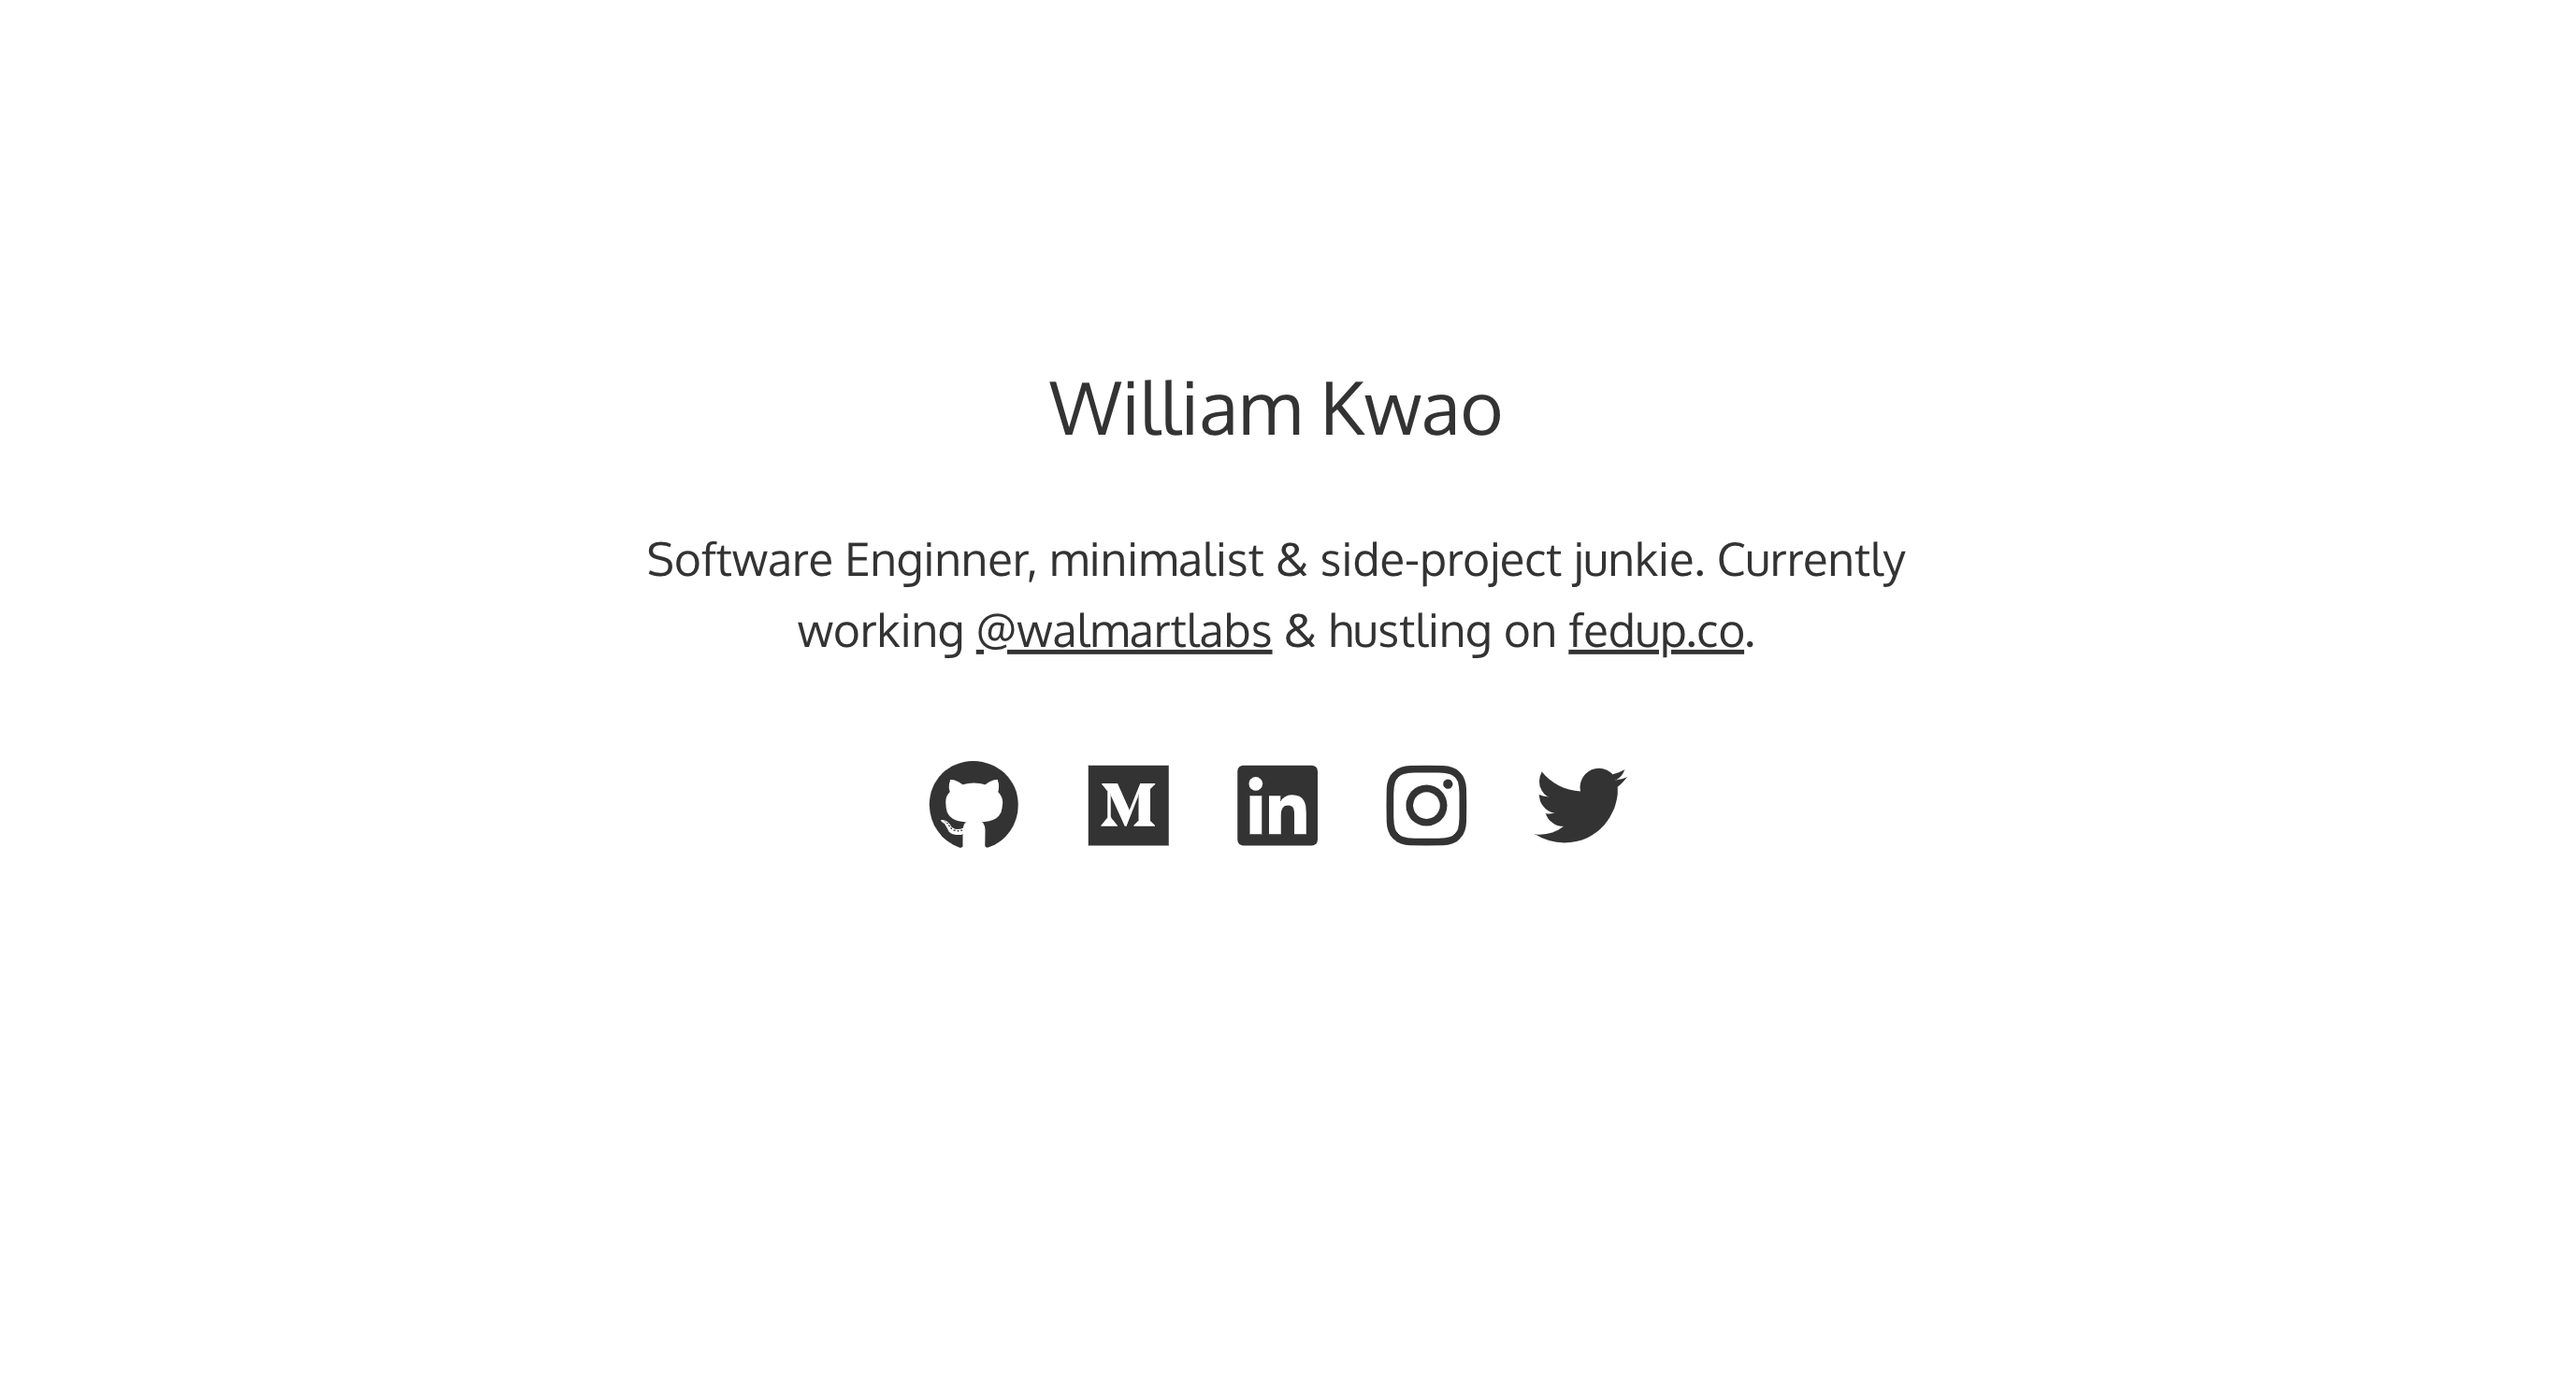
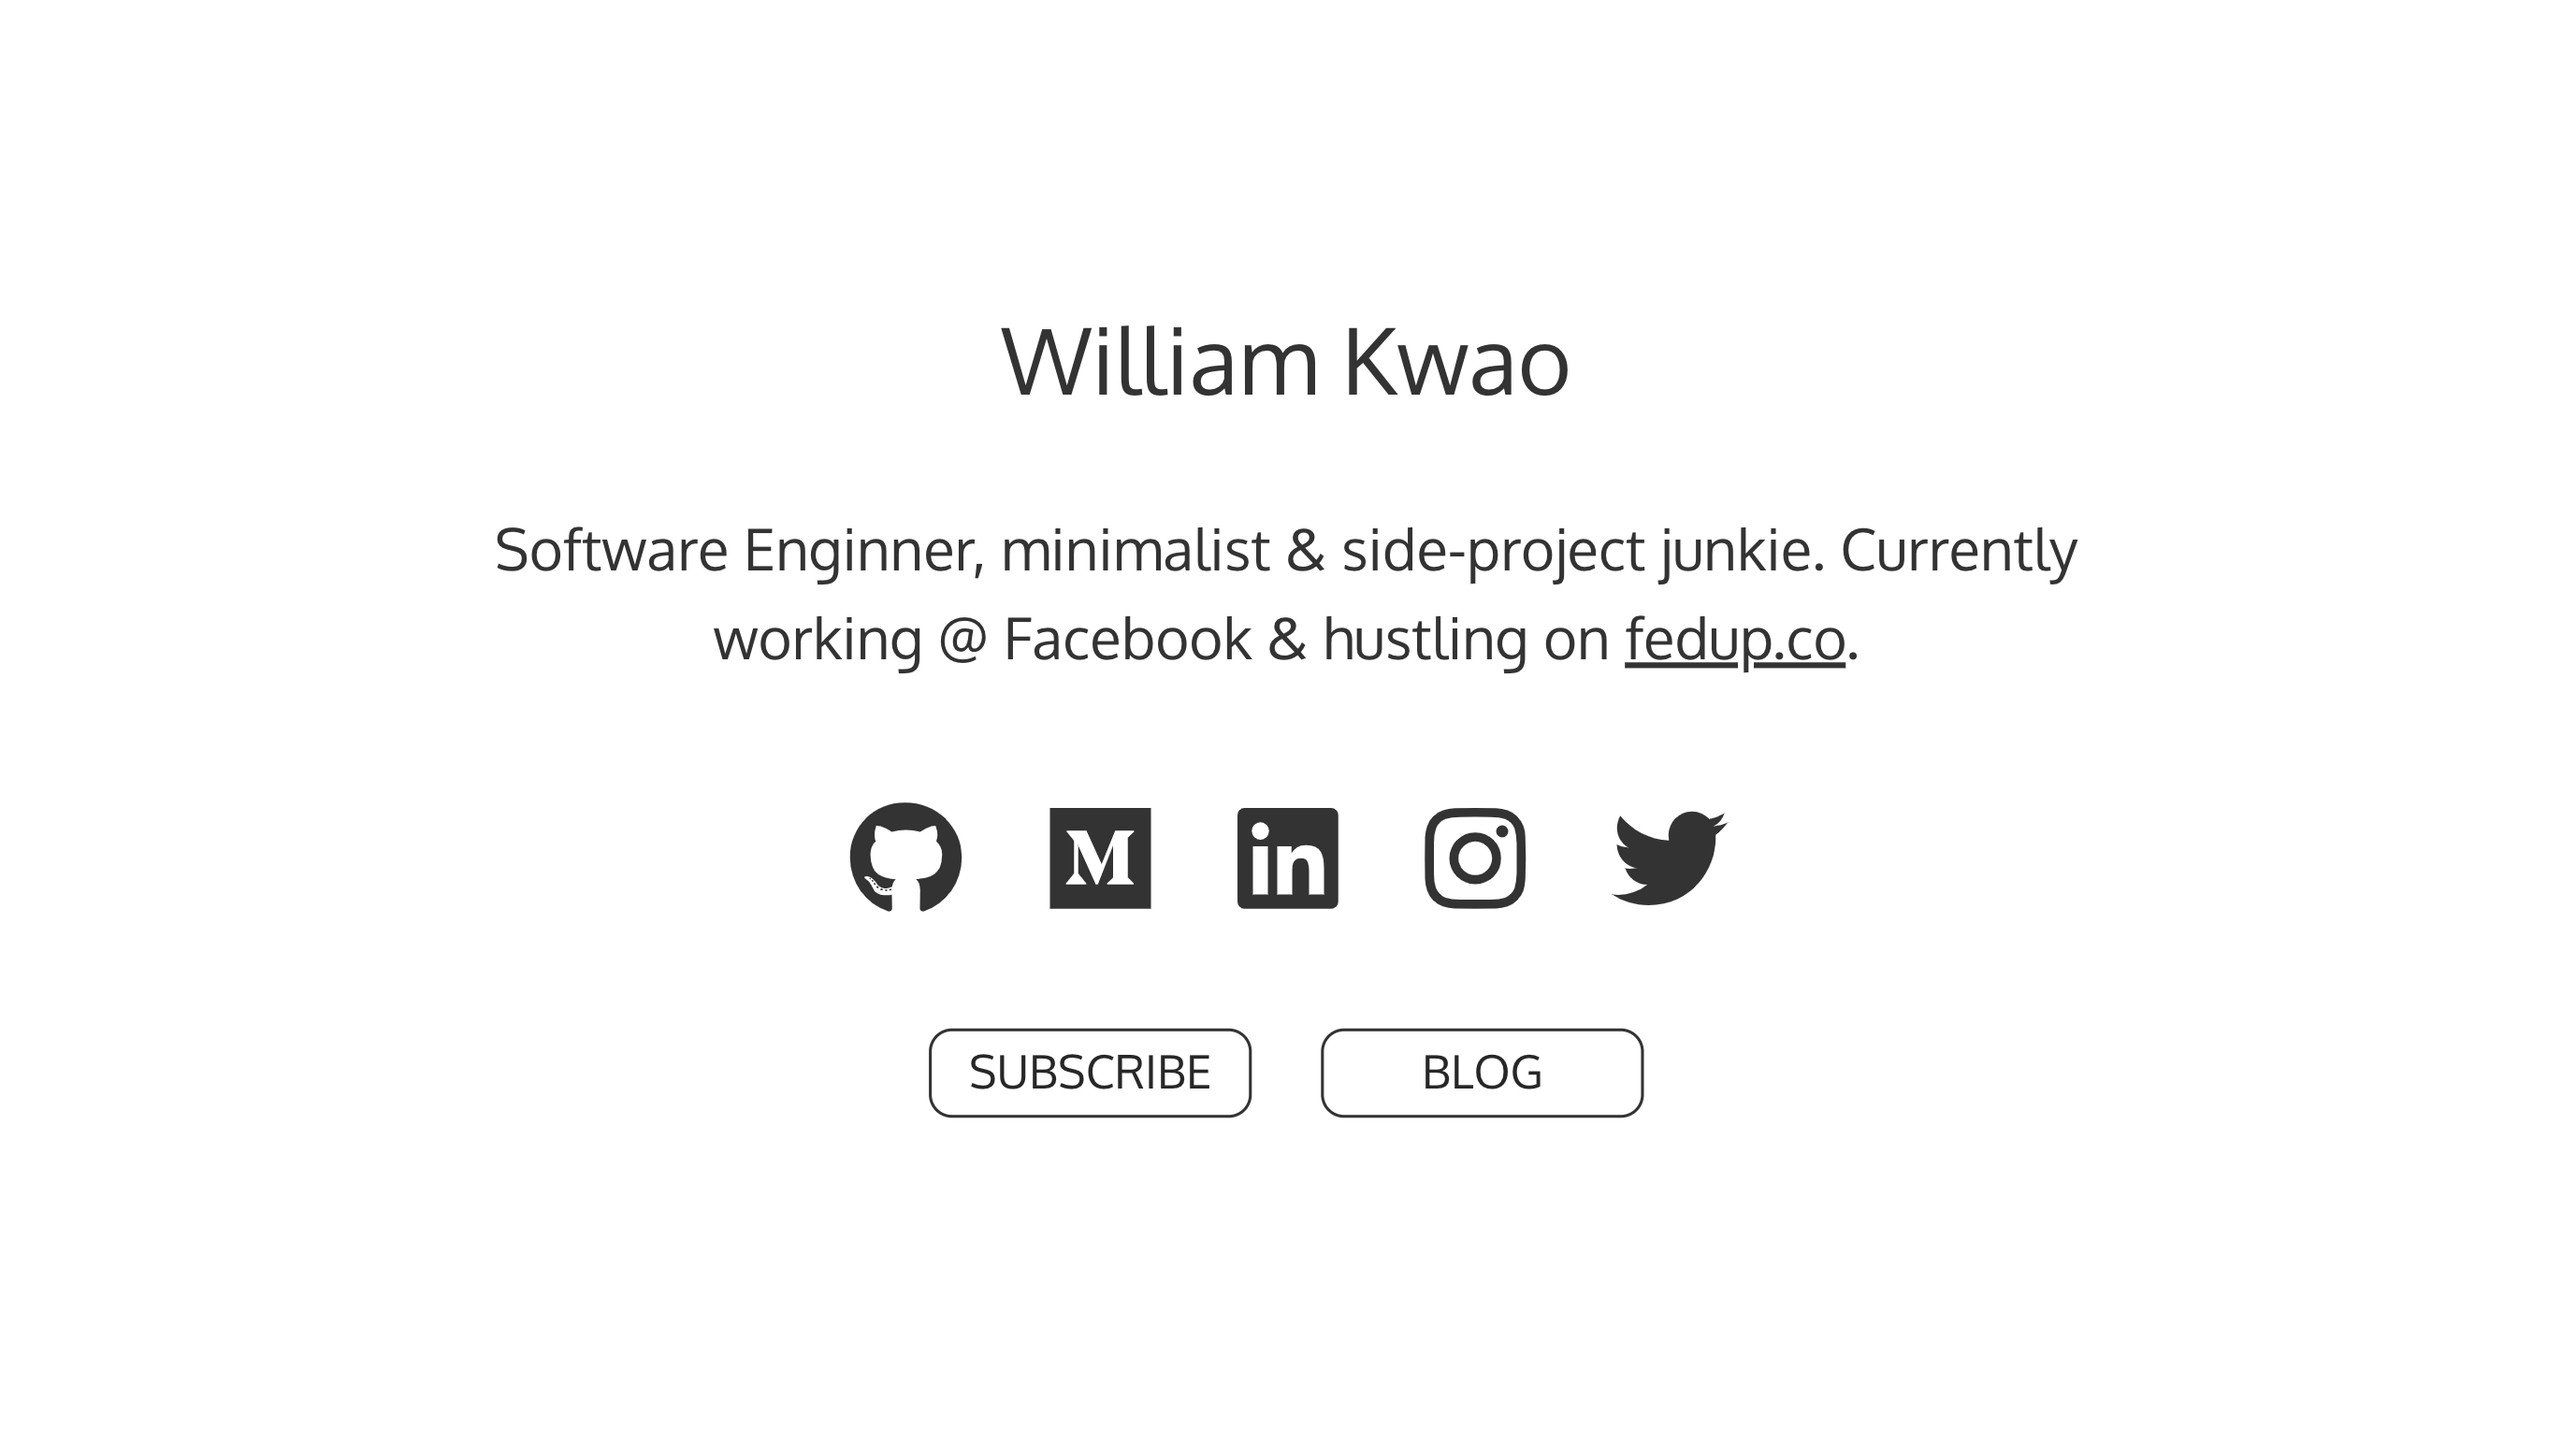
added CATs to homepage

diff --git a/src/pages/index.js b/src/pages/index.js
@@ -1,7 +1,9 @@
-import React from "react"
+import React, { useState } from "react"
 import SEO from "../components/seo"
 import styled from "styled-components"
 import { FontAwesomeIcon } from "@fortawesome/react-fontawesome"
+import { faTimes } from "@fortawesome/free-solid-svg-icons"
+
 import {
   faInstagram,
   faMedium,
@@ -10,52 +12,96 @@ import {
   faGithub,
 } from "@fortawesome/free-brands-svg-icons"
 import Layout from "../components/layout"
+import ReactModal from "react-modal"
+import Signup from "../components/signup/signup"
+import { Link } from "gatsby"
 
-const IndexPage = () => (
-  <Layout>
-    <HomePage>
-      <SEO title="William Kwao" />
-      <div className="landing">
-        <div className="content">
-          <div>
-            <h2 className="title">William Kwao</h2>
-            <p className="text">
-              Software Enginner, minimalist & side-project junkie. Currently
-              working{" "}
-              <a
-                href="https://www.walmartlabs.com/"
-                target="_blank"
-                rel="noopener noreferrer"
+const IndexPage = () => {
+  const [isModalOpen, setIsModalOpen] = useState(false)
+  return (
+    <Layout>
+      <HomePage>
+        <SEO title="William Kwao" />
+        <div className="landing">
+          <div className="content">
+            <div>
+              <h2 className="title">William Kwao</h2>
+              <p className="text">
+                Software Enginner, minimalist & side-project junkie. Currently
+                working @ Facebook & hustling on{" "}
+                <a
+                  href="https://fedup.co"
+                  target="_blank"
+                  rel="noopener noreferrer"
+                >
+                  fedup.co
+                </a>
+                .
+              </p>
+            </div>
+            <div className="logos">
+              {social.map((data, idx) => {
+                return (
+                  <div className="row" key={idx}>
+                    <a
+                      href={data.link}
+                      target="_blank"
+                      rel="noopener noreferrer"
+                    >
+                      <FontAwesomeIcon icon={data.logo} />
+                    </a>
+                  </div>
+                )
+              })}
+            </div>
+            <div className="actions">
+              <ActionButton
+                onClick={() => {
+                  setIsModalOpen(true)
+                }}
               >
-                @walmartlabs
-              </a>{" "}
-              & hustling on{" "}
-              <a
-                href="https://fedup.co"
-                target="_blank"
-                rel="noopener noreferrer"
-              >
-                fedup.co
-              </a>
-              .
-            </p>
-          </div>
-          <div className="logos">
-            {social.map((data, idx) => {
-              return (
-                <div className="row" key={idx}>
-                  <a href={data.link} target="_blank" rel="noopener noreferrer">
-                    <FontAwesomeIcon icon={data.logo} />
-                  </a>
-                </div>
-              )
-            })}
+                SUBSCRIBE
+              </ActionButton>
+              <Link to="/blog">
+                <ActionButton>BLOG</ActionButton>
+              </Link>
+            </div>
           </div>
         </div>
-      </div>
-    </HomePage>
-  </Layout>
-)
+      </HomePage>
+      <ReactModal
+        isOpen={isModalOpen}
+        closeTimeoutMS={500}
+        onRequestClose={() => setIsModalOpen(false)}
+        style={{
+          overlay: {
+            display: "flex",
+            justifyItems: "center",
+            alignItems: "center",
+            justifyContent: "center",
+          },
+          content: {
+            position: "relative",
+            border: "1px solid #ccc",
+            right: 0,
+            left: 0,
+            bottom: 0,
+            top: 0,
+          },
+        }}
+      >
+        <div className="signup-modal">
+          <div style={{ textAlign: "right" }}>
+            <ClearButton onClick={() => setIsModalOpen(false)}>
+              <FontAwesomeIcon icon={faTimes} />
+            </ClearButton>
+          </div>
+          <Signup />
+        </div>
+      </ReactModal>
+    </Layout>
+  )
+}
 
 const social = [
   {
@@ -155,6 +201,15 @@ const HomePage = styled.div`
     text-align: center;
     margin-top: 20px;
   }
+  .actions {
+    text-align: center;
+    margin-top: 23px;
+    button {
+      margin: 12px;
+      margin-top: 0px;
+      width: 112px;
+    }
+  }
   @media only screen and (min-width: 600px) {
     .title {
       font-size: 32px;
@@ -174,5 +229,17 @@ const HomePage = styled.div`
       }
     }
   }
+`
+
+const ActionButton = styled.button`
+  border: 1px solid rgba(0, 0, 0, 0.8);
+  background: transparent;
+  border-radius: 8px;
+  font-size: 16px;
+`
+
+const ClearButton = styled.button`
+  background: transparent;
+  border: none;
 `
 export default IndexPage

diff --git a/src/components/layout.css b/src/components/layout.css
@@ -619,16 +619,32 @@ pre tt:before,
 pre tt:after {
   content: "";
 }
+.ReactModal__Overlay {
+  opacity: 0;
+  transition: opacity 500ms ease-in-out;
+}
+
+.ReactModal__Overlay--after-open{
+  opacity: 1;
+}
+
+.ReactModal__Overlay--before-close{
+  opacity: 0;
+}
+
 @media only screen and (max-width: 480px) {
   html {
     font-size: 100%;
   }
 }
 
-
+@media only screen and (min-width: 600px) {
+  .signup-modal .formkit-form {
+    min-width: 500px;
+  }
+}
 
 deckgo-highlight-code *{
   white-space: pre;
-  
 }
 

diff --git a/gatsby-config.js b/gatsby-config.js
@@ -1,7 +1,7 @@
 module.exports = {
   siteMetadata: {
     title: `kwao.io`,
-    description: `Hi I'm William Kwao. A software Enginner, minimalist & side-project junkie. Currently working @walmartlabs & hustling on fedup.co.`,
+    description: `Hi I'm William Kwao. A software Enginner, minimalist & side-project junkie. Currently working @ Facebook & hustling on fedup.co.`,
     author: `William Kwao`,
     siteUrl: 'https://kwao.io'
   },
